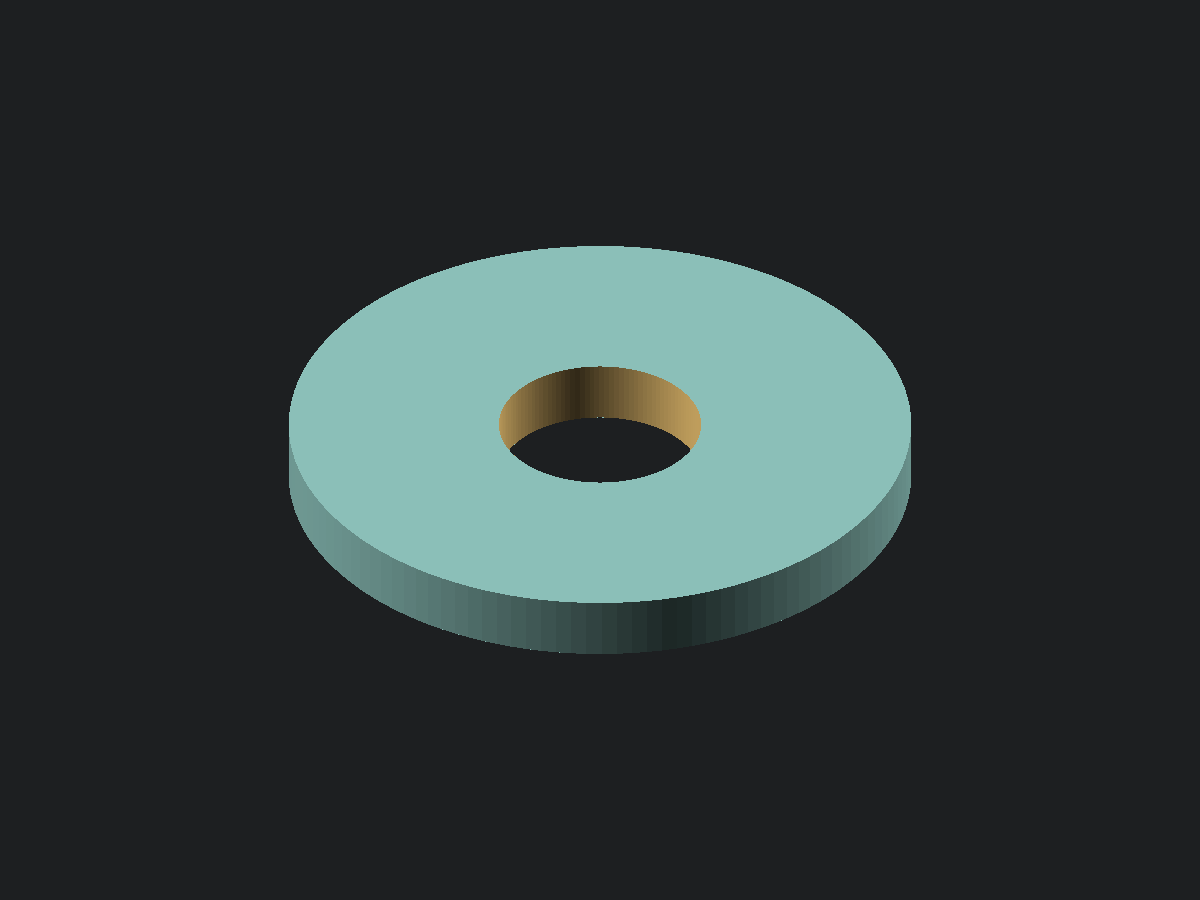
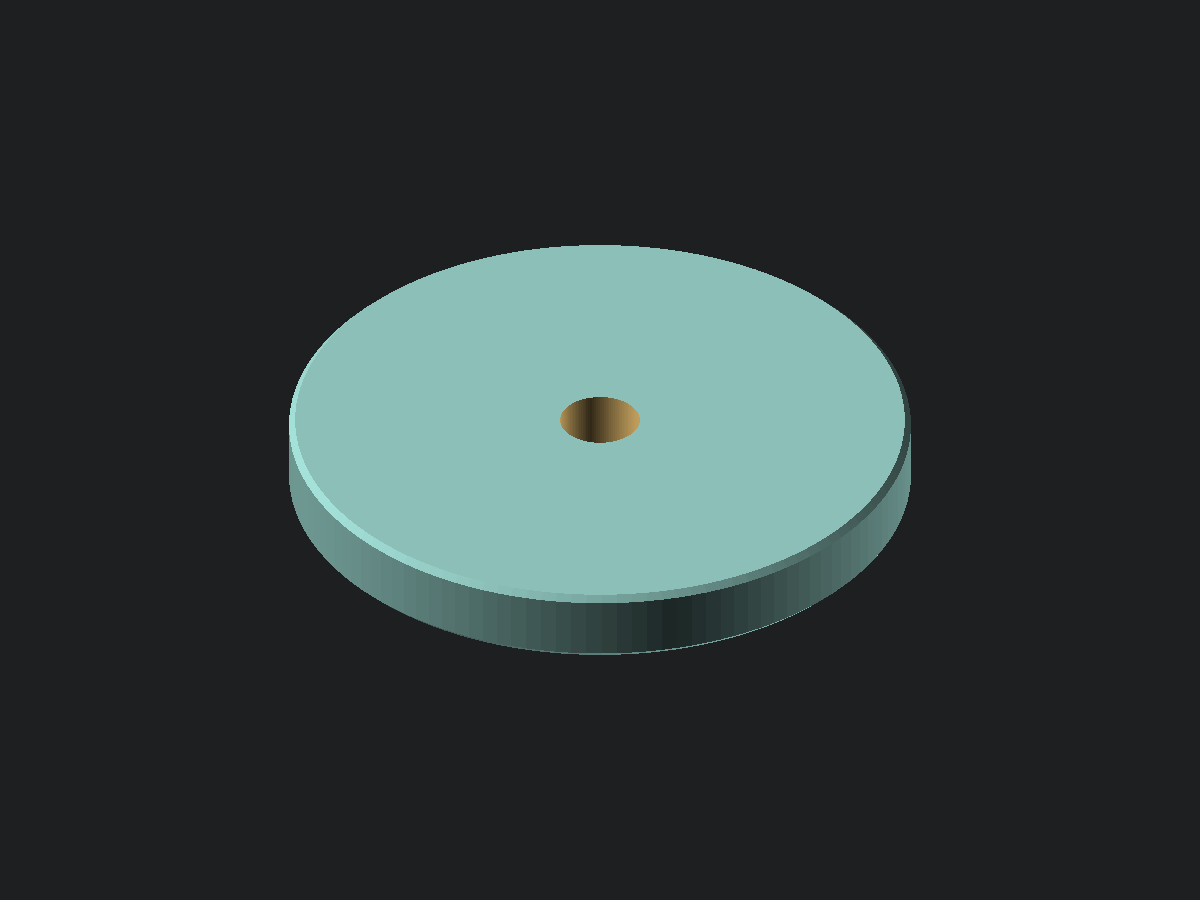
✨ Size round washer for shelf spacer trials

diff --git a/round_washer/README.md b/round_washer/README.md
@@ -8,7 +8,10 @@
 
 A flat round washer with a concentric through bore. Set its **inner diameter (ID)**, **outer
 diameter (OD)**, and **thickness** directly. All dimensions are in millimetres. The supplied 6.5 mm
-ID, 20 mm OD, and 2 mm thickness are example dimensions, not a standard washer size.
+ID, 50.8 mm (2 in) OD, and 6 mm thickness are a starting geometry for shelf-support spacers across
+approximately 25.4 mm (1 in) wall-panel grooves. The 6.5 mm bore provides nominal clearance for a
+6.35 mm (¼ in) screw; verify the printed fit. These are trial dimensions, not a standard washer size
+or a structural load rating.
 
 ## Dimensions and measuring
 
@@ -17,13 +20,14 @@ Measure an existing washer with calipers, or choose the finished dimensions for 
 | Parameter        | Meaning                               | Default | Measure                         | Caliper |
 | ---------------- | ------------------------------------- | ------- | ------------------------------- | ------- |
 | `inner_diameter` | Inner diameter of the through bore    | 6.5 mm  | Inside jaws at the bore opening | 6 in    |
-| `outer_diameter` | Outer diameter of the washer          | 20 mm   | Outside jaws across the rim     | 6 in    |
-| `thickness`      | Axial distance between the flat faces | 2 mm    | Outside jaws on the two faces   | 6 in    |
+| `outer_diameter` | Outer diameter of the washer          | 50.8 mm | Outside jaws across the rim     | 6 in    |
+| `thickness`      | Axial distance between the flat faces | 6 mm    | Outside jaws on the two faces   | 6 in    |
 
 The inner diameter and thickness must be positive, and the outer diameter must exceed the inner
 diameter. Assertions reject values that would close the bore or remove the washer. The source echoes
 all three dimensions and the derived radial width of material around the bore:
-`(outer_diameter - inner_diameter) / 2`, which is 6.75 mm with the defaults.
+`(outer_diameter - inner_diameter) / 2`, which is 22.15 mm with the defaults. It also echoes the
+outer chamfer size and flat bearing diameter, which is 49.8 mm with the defaults.
 
 ## Tuning
 
@@ -33,14 +37,36 @@ clearance your printer and material need. Increase the inner diameter if a trial
 enough radial width around the bore for your application and enough thickness for your chosen layer
 height.
 
-`$fn` controls the circular resolution and ships at 128 segments. Both faces are flat and both rims
-are square, with no chamfers or countersinks.
+`edge_chamfer` defaults to 0.5 mm on both outer edges. Its radial run and axial rise use the same
+value, keeping the bevel at 45° for every setting. This small edge break improves handling and
+appearance while retaining broad, flat bearing faces. The bore stays straight, without a
+countersink. Set `edge_chamfer = 0` for square outer edges. Assertions require a nonnegative chamfer
+smaller than the radial width and less than half the thickness, preserving flat bearing faces and a
+straight section of outer wall.
+
+`$fn` controls the circular resolution and ships at 128 segments. Outer diameter includes the
+bevelled rim; the flat bearing diameter is `outer_diameter - 2 * edge_chamfer`.
 
 ## Printing
 
 Print as modelled, with a flat face on the plate and the bore axis vertical. The bore goes all the
-way through, so there is no ceiling to bridge. The inner and outer walls are vertical (0° from
-vertical), and the only downward-facing surface is the first layer on the plate. No supports are
-needed. Either flat face can sit on the plate; leave placement to the slicer.
+way through, so there is no ceiling to bridge. The bore and central outer wall are vertical (0° from
+vertical). The lower outer bevel is the worst overhang, at 45° from vertical; its angle is fixed by
+construction. No supports are needed. Either flat face can sit on the plate; leave placement to the
+slicer.
 
-The example dimensions have not been physically printed or fit-tested.
+For the shelf-spacer trial, use black ELEGOO PETG-CF, print solid (100% infill), and check the
+sliced layers for a fully filled interior. Use dry filament, a wear-resistant nozzle, and the
+manufacturer's material profile. Finish screw tightening by hand and stop before visible dishing or
+indentation. Keep the same thickness at each mounting point for a consistent standoff, and allow for
+that standoff when selecting screw length.
+
+The 6 mm thickness is a starting point for testing across the wall groove, not a verified minimum.
+Increased thickness improves bending stiffness but does not eliminate compression creep or loss of
+clamping force. Test the worst-positioned mounting point first, inspect for settling after a day and
+a week before fully loading the shelves, and continue periodic checks. The screws need sound
+anchorage behind the paneling.
+
+These dimensions have not been physically printed, fit-tested, load-tested, or validated for
+long-term creep. Mesh checks establish geometry and support-free printability, not shelving
+capacity. Regenerate and re-slice any existing local slicer project after this source change.

diff --git a/README.md b/README.md
@@ -130,7 +130,8 @@ notch cut clean through the middle is what makes the pencil possible to pick up 
 [source](round_washer/round_washer.scad)
 
 A flat round washer with a concentric through bore. Set the inner diameter, outer diameter, and
-thickness directly; the example dimensions are ready to adjust to your application.
+thickness directly, with small 45° outer edge bevels. The 2-inch OD, 6 mm thick defaults are a
+shelf-spacer starting point; fit, load capacity, and long-term creep remain untested.
 
 ### Shelf tube coupler and brace
 
